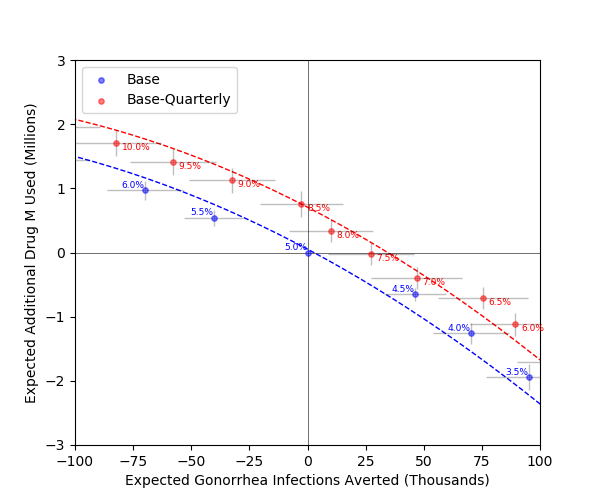
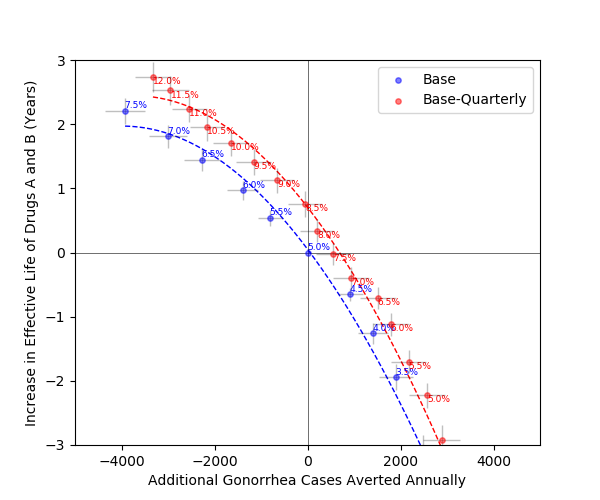
gono update

diff --git a/gonorrhea/SADisplaySeries.py b/gonorrhea/SADisplaySeries.py
@@ -3,11 +3,14 @@ import gonorrhea.GonoSettings as Set
 
 
 Y_AXIS_MULTIPLIER = 1
+LABELS = ('', '')
 
 
-def plot_series(list_series, y_axis_multiplier=1.0, file_name='fig.png'):
+def plot_series(list_series, y_axis_multiplier=1.0, labels=('', ''), file_name='fig.png'):
     """    
     :param list_series: (list) of series to display on the CE plane
+    :param y_axis_multiplier: the y-axis multiplier
+    :param labels: (tuple) x_ and y-axis labels
     :param file_name: (string) the file name to save the plot as
     """
 
@@ -16,13 +19,13 @@ def plot_series(list_series, y_axis_multiplier=1.0, file_name='fig.png'):
                         csv_filename=Set.SELECTED_SA_FILE_NAME,
                         save_cea_results=False,
                         interval_type='c',
-                        x_axis_multiplier=1 / 1e3,
+                        x_axis_multiplier=1 / 50,   # 50 years of simulation
                         y_axis_multiplier=y_axis_multiplier)
 
     # plot
     Cls.plot_series(series=list_series,
-                    x_label='Expected Gonorrhea Infections Averted (Thousands)',
-                    y_label='Expected Additional Drug M Used (Millions)',
+                    x_label=labels[0],
+                    y_label=labels[1],
                     file_name=file_name,
                     show_only_on_frontier=False,
                     x_range=Set.X_RANGE,
@@ -33,26 +36,35 @@ def plot_series(list_series, y_axis_multiplier=1.0, file_name='fig.png'):
 
 # change this to false to show M used
 SHOW_EFFECTIVE_LIFE = True
+
 if SHOW_EFFECTIVE_LIFE:
+    Set.X_RANGE = (-5000, 5000)
     Set.Y_RANGE = (-3, 3)
     Cls.COST_MEASURE = 'Average ratio: Effective life of AB'
     Y_AXIS_MULTIPLIER = 50
+    LABELS = ('Additional Gonorrhea Cases Averted Annually',
+              'Increase in Effective Life of Drugs A and B (Years)')
 else:
     Set.Y_RANGE = (-0.5, 0.5)
     Cls.COST_MEASURE = 'Total Cost'
     Y_AXIS_MULTIPLIER = 1 / 1e6
+    LABELS = ('Additional Gonorrhea Cases Averted Annually',
+              'Additional Drug M Used (Millions)')
 
 
 # base vs. quarterly base
 plot_series(list_series=[Set.base, Set.baseQuarterly],
             y_axis_multiplier=Y_AXIS_MULTIPLIER,
+            labels=LABELS,
             file_name='Base vs. Quarterly Base.png')
 # base vs. base with enhanced testing
 plot_series(list_series=[Set.base, Set.baseEnhancedTesting],
             y_axis_multiplier=Y_AXIS_MULTIPLIER,
+            labels=LABELS,
             file_name='Base vs. Base with Enhanced Testing.png')
 # base vs. quarterly base with enhanced testing
 plot_series(list_series=[Set.base, Set.baseQuarterlyEnhancedTesting],
             y_axis_multiplier=Y_AXIS_MULTIPLIER,
+            labels=LABELS,
             file_name='Base vs. Quarterly Base with Enhanced Testing.png')
 
